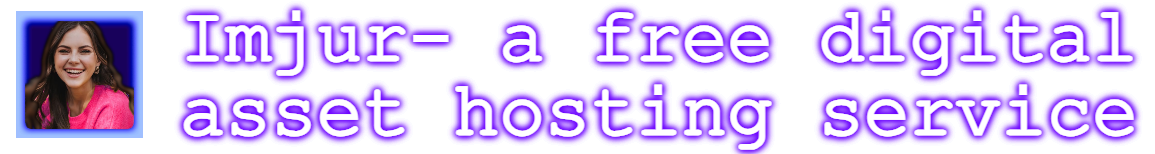
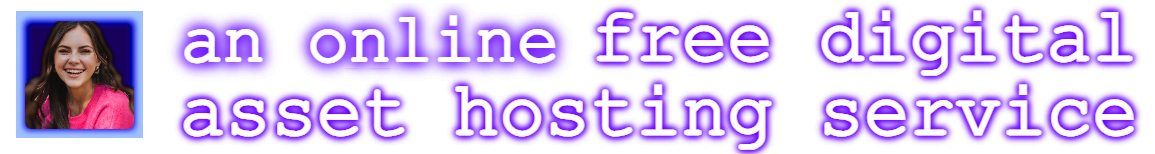
Add files via upload

Changed region(s): [[0.1247, 0.026, 0.4987, 0.5455]]

diff --git a/src/components/Main.vue b/src/components/Main.vue
@@ -211,7 +211,7 @@ export default {
               }else{
                 let data = JSON.parse(e.currentTarget.responseText)
                 if(data[0]){
-                  this.state.modalContent = '<div style="box-sizing: border-box;min-width:90vw; min-height: 50vh; position: absolute; left: 50%; top: 50%; transform: translate(-50%, -50%);background: #0846; color: #8f8; padding: 100px; text-align: left;word-break: auto-phrase;">' + `excellent choice, uploading here...<br><br>you have not logged in though, which means your links will be lost soon.<br><br>If you register, nothing is needed except a name of your choosing and a password you will remember, then these uploads will be auto-saved to your new profile...<br><br>just don't close the page or refresh before you login or register!<br><br><br>thanks for using imjur!` + '</div>'
+                  this.state.modalContent = '<div style="box-sizing: border-box;min-width:90vw; min-height: 50vh; position: absolute; left: 50%; top: 50%; transform: translate(-50%, -50%);background: #0846; color: #8f8; padding: 100px; text-align: left;word-break: auto-phrase;">' + `excellent choice, uploading here...<br><br>you have not logged in though, which means your links will be lost soon.<br><br>If you register, nothing is needed except a name of your choosing and a password you will remember, then these uploads will be auto-saved to your new profile...<br><br>just don't close the page or refresh before you login or register!<br><br><br>thanks for using this service!` + '</div>'
                   this.state.showModal = true
                   this.state.showRegister = true
                   this.state.showLoginPrompt = true

diff --git a/src/components/Toolbar.vue b/src/components/Toolbar.vue
@@ -189,7 +189,7 @@ export default {
               this.state.showModal = true*/
             }else{
               if(data[0]){
-                this.state.modalContent = '<div style="box-sizing: border-box;min-width:90vw; min-height: 50vh; position: absolute; left: 50%; top: 50%; transform: translate(-50%, -50%);background: #0846; color: #8f8; padding: 100px; text-align: left;word-break: auto-phrase;">' + `excellent choice, uploading here...<br><br>you have not logged in though, which means your links will be lost soon.<br><br>If you register, nothing is needed except a name of your choosing and a password you will remember, then these uploads will be auto-saved to your new profile...<br><br>just don't close the page or refresh before you login or register!<br><br><br>thanks for using imjur!` + '</div>'
+                this.state.modalContent = '<div style="box-sizing: border-box;min-width:90vw; min-height: 50vh; position: absolute; left: 50%; top: 50%; transform: translate(-50%, -50%);background: #0846; color: #8f8; padding: 100px; text-align: left;word-break: auto-phrase;">' + `excellent choice, uploading here...<br><br>you have not logged in though, which means your links will be lost soon.<br><br>If you register, nothing is needed except a name of your choosing and a password you will remember, then these uploads will be auto-saved to your new profile...<br><br>just don't close the page or refresh before you login or register!<br><br><br>thanks for using this service!` + '</div>'
                 this.state.showModal = true
                 this.state.showRegister = true
                 this.state.showLoginPrompt = true

diff --git a/src/App.vue b/src/App.vue
@@ -64,7 +64,7 @@ export default {
   data(){
     return {
       state: {
-        footerMsg: '<b><span style="transform: scaleX(4.1);display: inline-block; margin-left: 86px; ">IMJUR</span></b><br>A FREE DIGITAL ASSET<br><span style="transform: scaleX(.87);display: inline-block; margin-left: -18px;">HOSTING SERVICE - ©'+(new Date()).getFullYear() + `</span><br><a href="mailto:whitehotrobot@gmail.com"><span style="transform: scaleX(.87);display: inline-block; margin-left: -18px;">whitehotrobot@gmail.com</span></a>`,
+        footerMsg: '<b><span style="transform: scaleX(3.325);display: inline-block; margin-left: 86px; ">ASSETS</span></b><br>A FREE DIGITAL ASSET<br><span style="transform: scaleX(.87);display: inline-block; margin-left: -18px;">HOSTING SERVICE - ©'+(new Date()).getFullYear() + `</span><br><a href="mailto:whitehotrobot@gmail.com"><span style="transform: scaleX(.87);display: inline-block; margin-left: -18px;">whitehotrobot@gmail.com</span></a>`,
         links: [],         // immediate uploads
         userLinks: [],     // logged-in user - current pg only
         miscLinks: [],     // alt views, e.g. per-collection links
@@ -1207,7 +1207,7 @@ export default {
     },
     URLbase(){
       let ret = window.location.origin
-      if(ret != null && ret.toLowerCase().split('.')[0].indexOf('imjur') === -1 &&
+      if(ret.toLowerCase().split('.')[0].indexOf('imjur') === -1 &&
          ret.toLowerCase().split('.')[0].indexOf('assets') === -1 ){
         ret += '/imjur'
       }

diff --git a/public/index.html b/public/index.html
@@ -4,7 +4,7 @@
     <meta charset="utf-8">
     <meta http-equiv="X-UA-Compatible" content="IE=edge">
     <meta name="viewport" content="width=800,initial-scale=1.0">
-    <title>IMJUR -a free digital asset hosting service</title>
+    <title>an online free digital asset hosting service</title>
     <link rel="icon" href="favicon.png">
     <title><%= htmlWebpackPlugin.options.title %></title>
   </head>

diff --git a/public/db_.php b/public/db_.php
@@ -1,0 +1,8 @@
+<?php 
+  $db_user  = 'if0_36394634';
+  $db_pass  = '49DhSvcug8B';
+  $db_host  = 'sql309.infinityfree.com';
+  $db       = "if0_36394634_imjur";
+  $port     = '3306';
+  $link     = mysqli_connect($db_host,$db_user,$db_pass,$db,$port);
+?>
